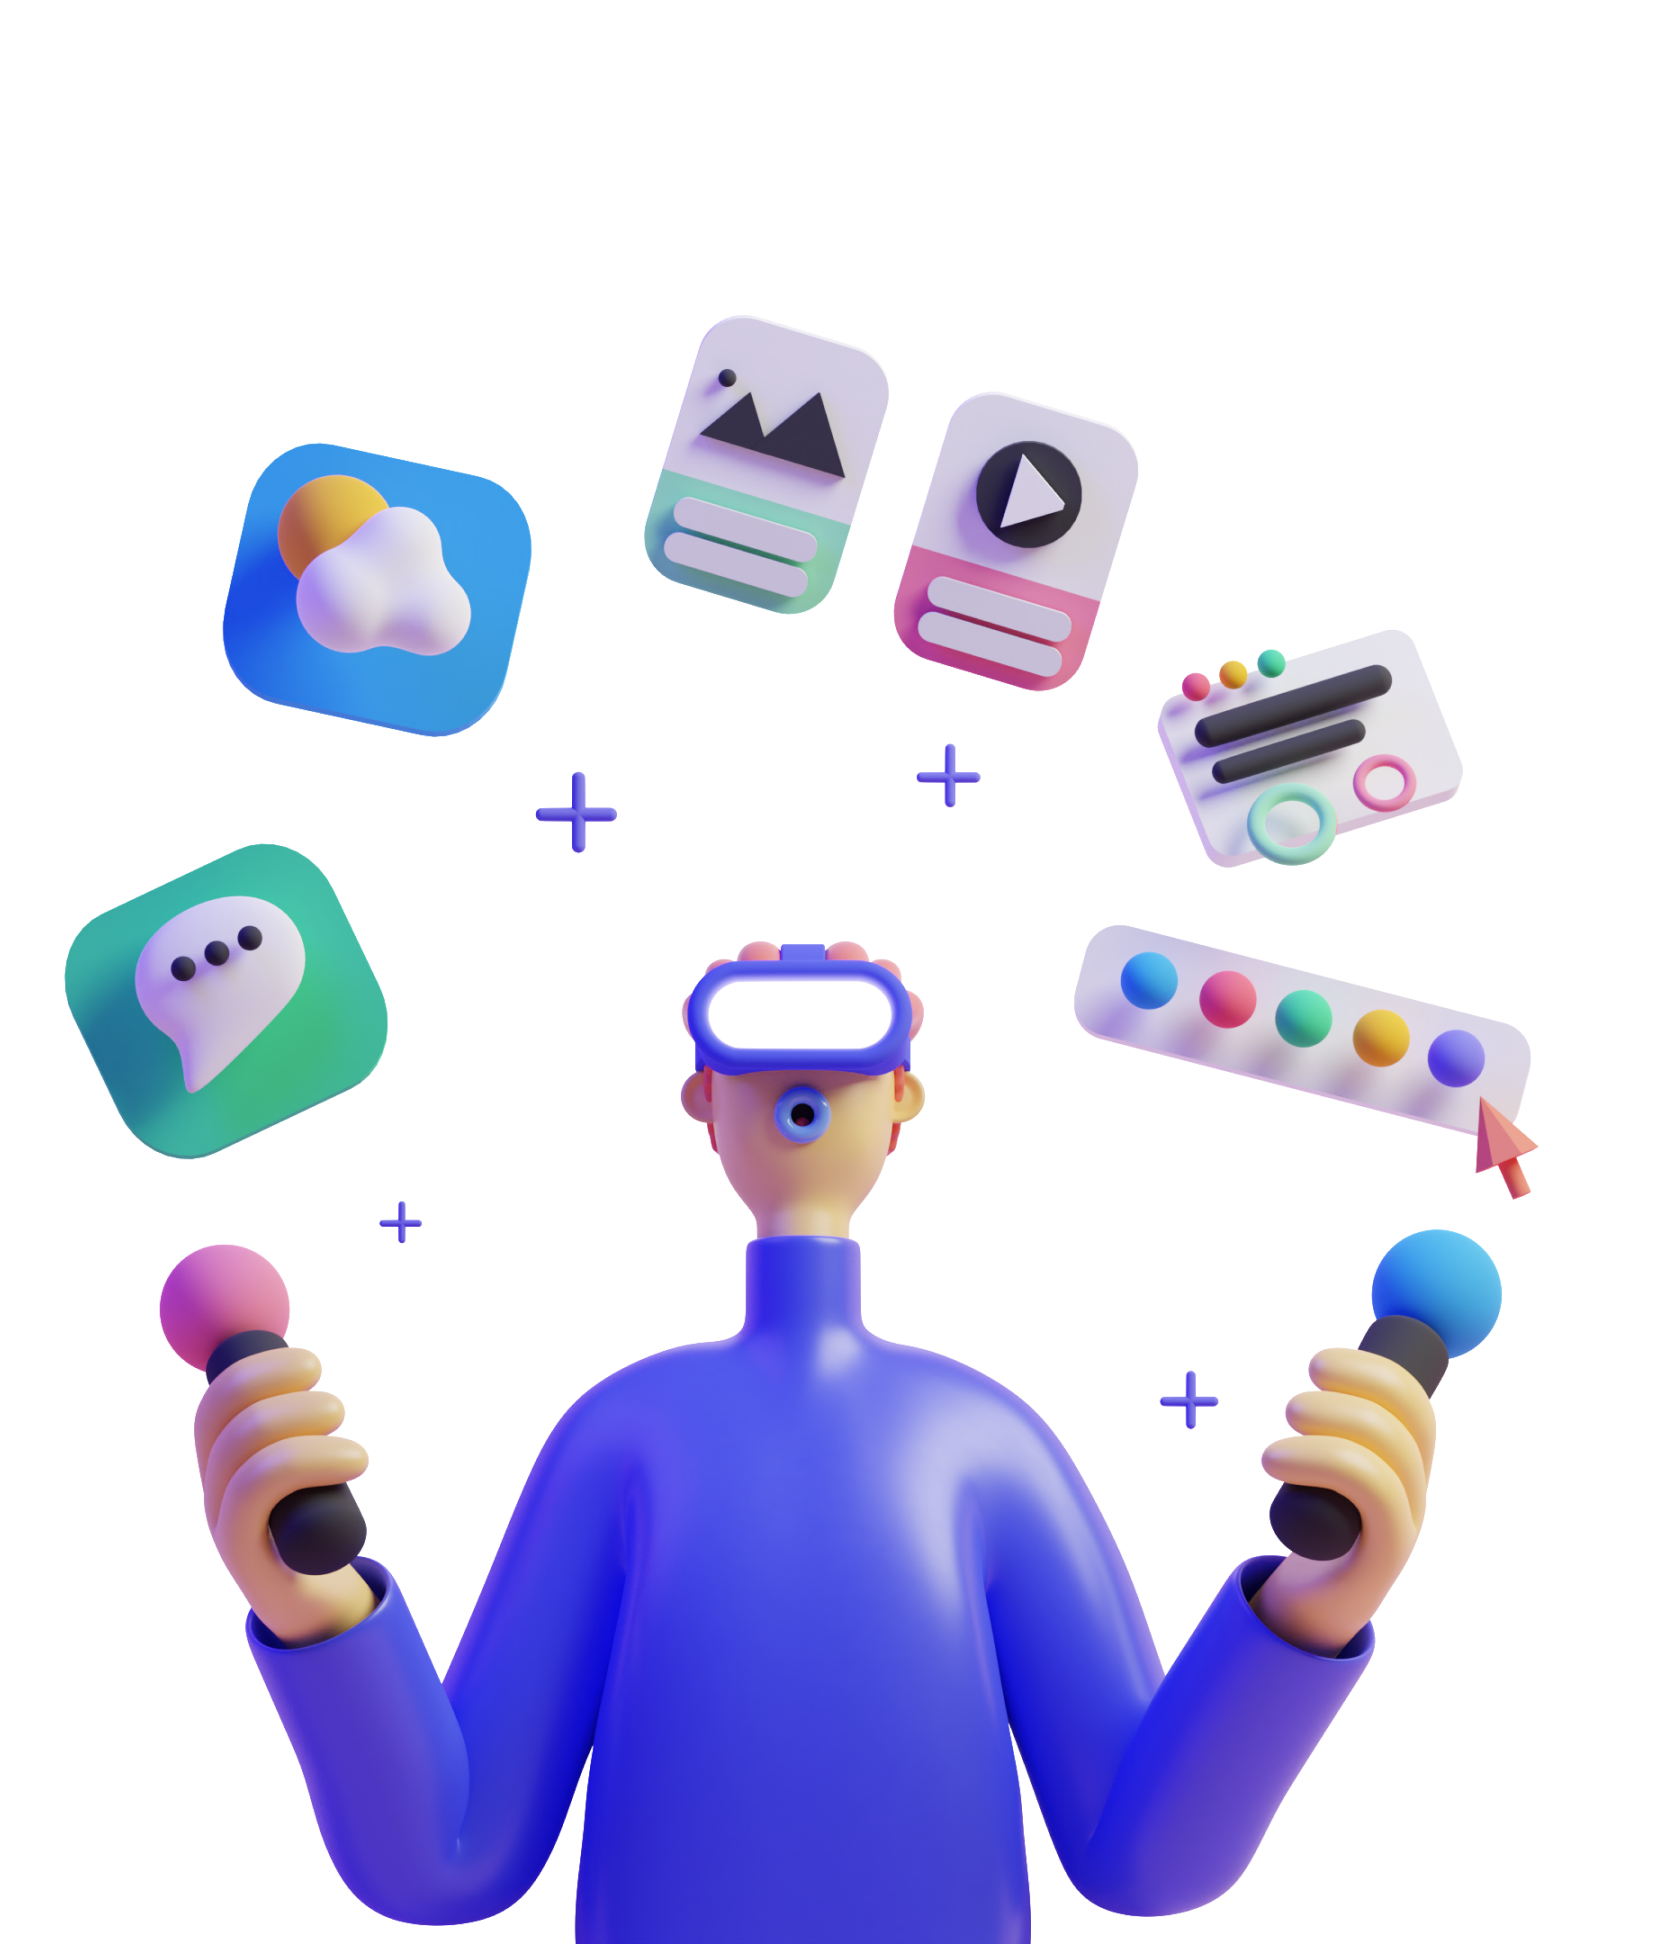
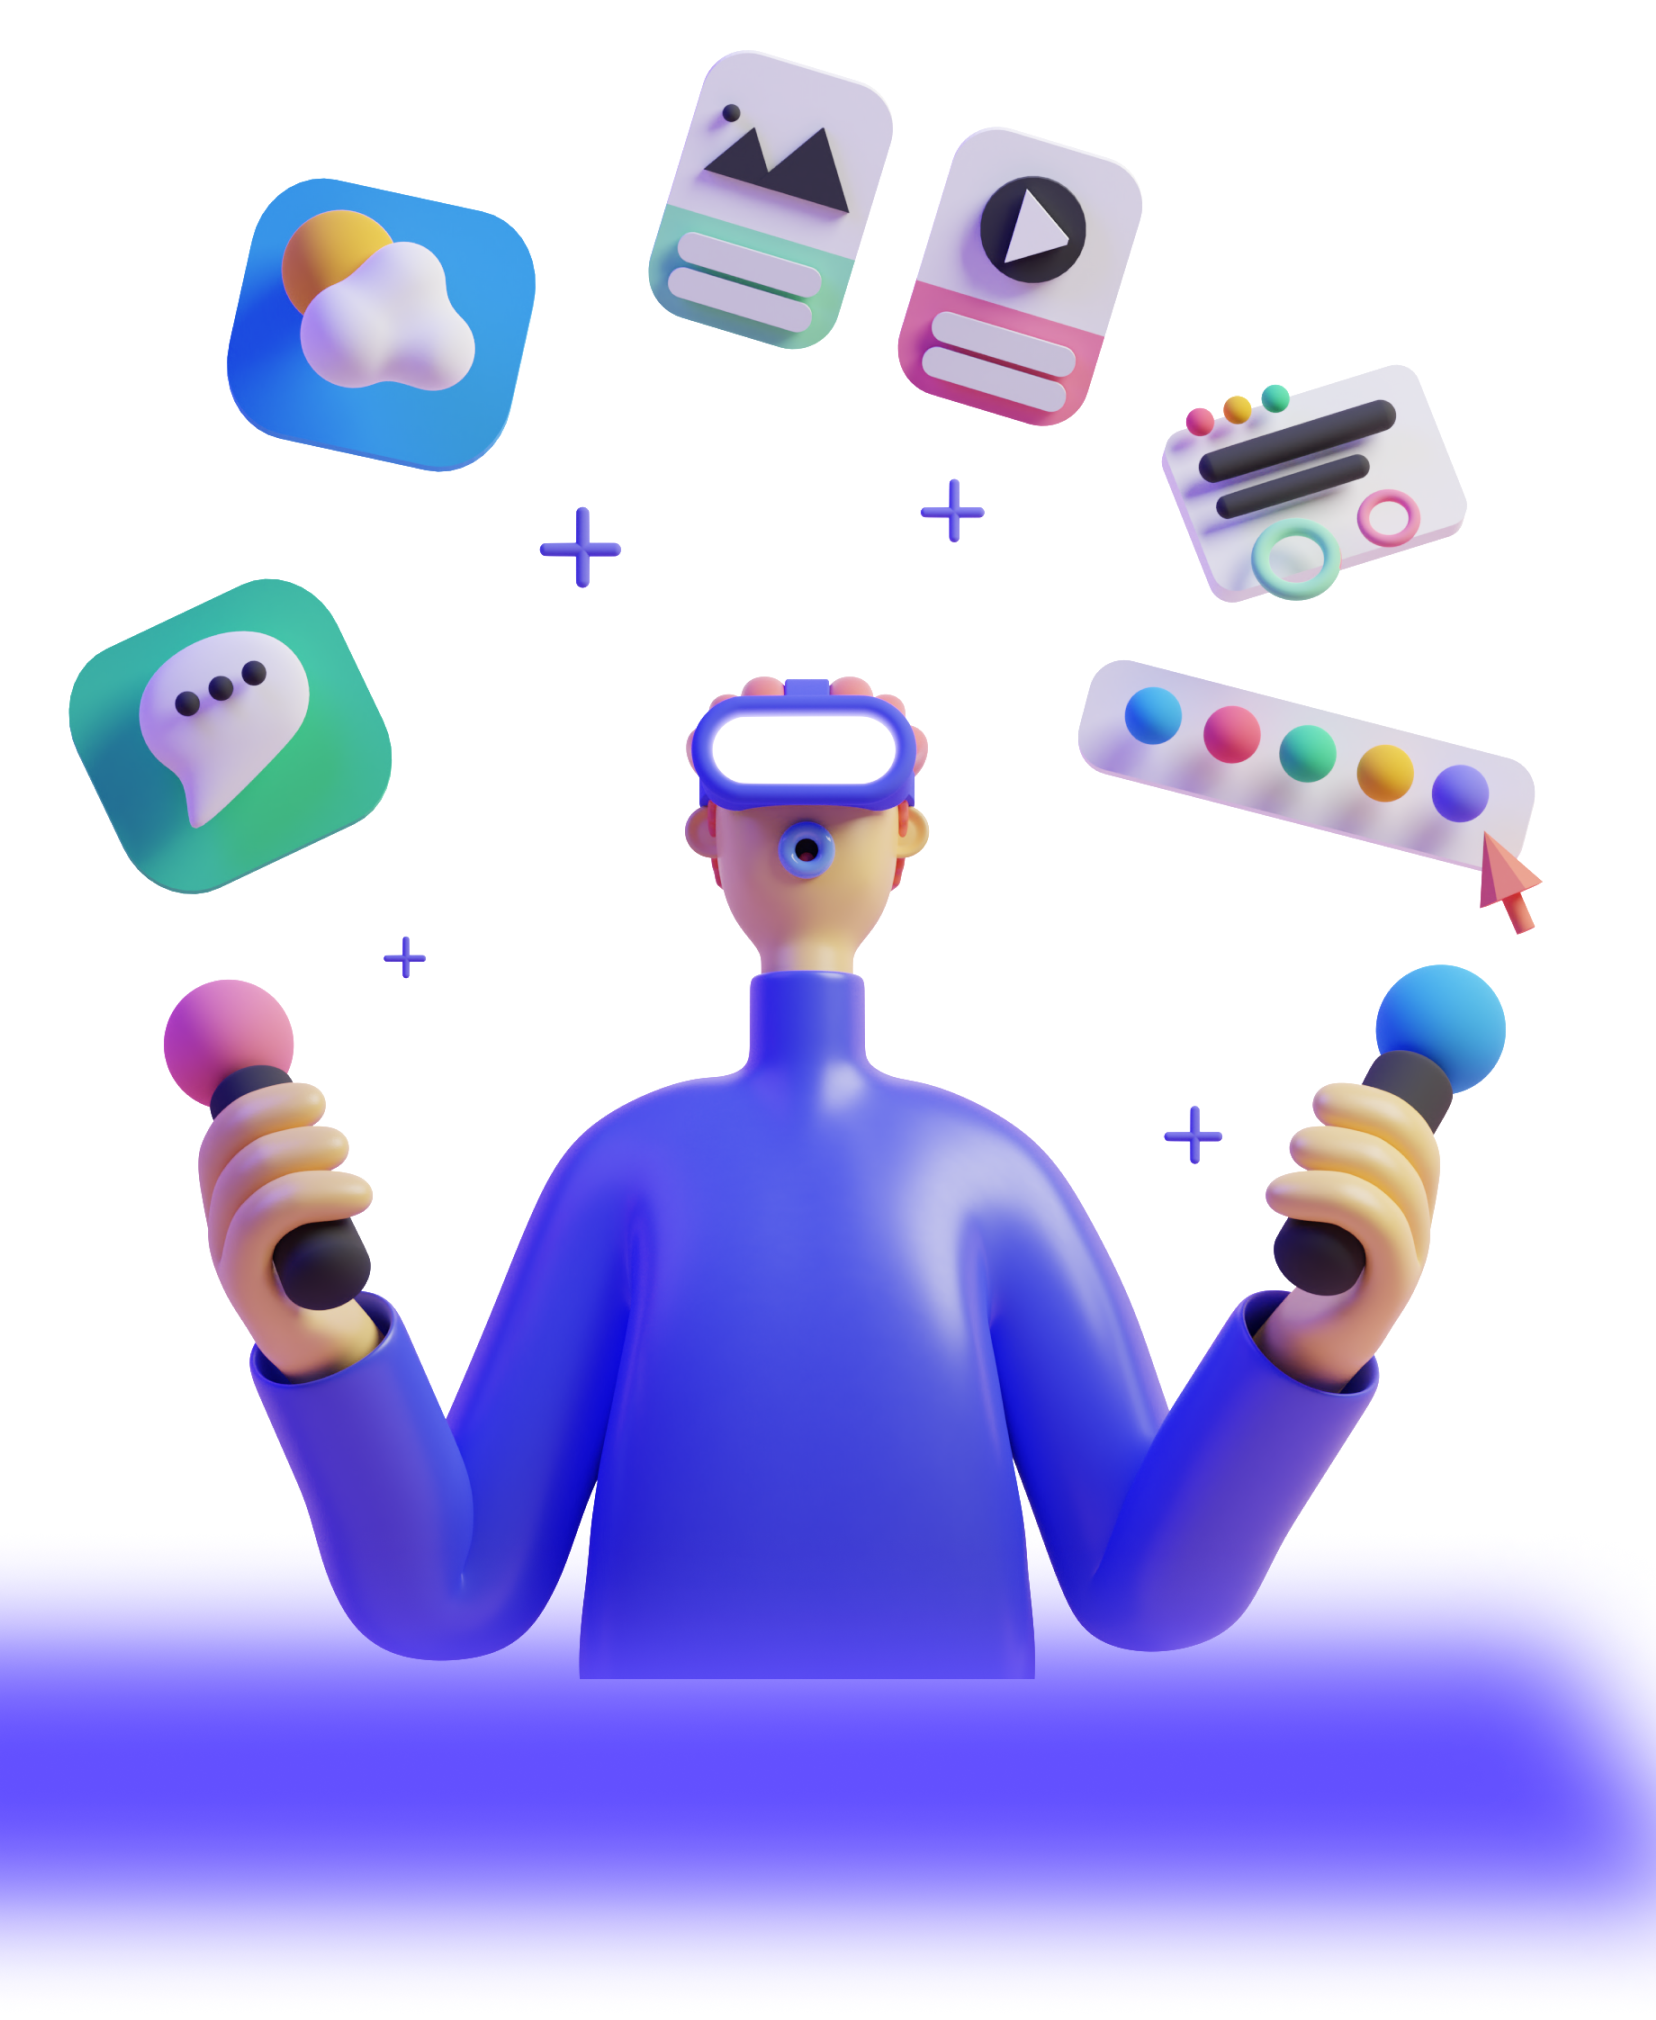
update

diff --git a/lib/ui/pages/home/drawer_page/home_page.dart b/lib/ui/pages/home/drawer_page/home_page.dart
@@ -1,0 +1,153 @@
+import 'package:flutter/material.dart';
+import 'package:tech_ecommerce/shared/theme.dart';
+import 'package:flutter_screenutil/flutter_screenutil.dart';
+
+class HomePage extends StatefulWidget {
+  const HomePage({Key? key}) : super(key: key);
+
+  @override
+  _HomePageState createState() => _HomePageState();
+}
+
+class _HomePageState extends State<HomePage> {
+  double xOffset = 0;
+  double yOffset = 0;
+  double scaleFactor = 1;
+  bool isDrawerOpen = false;
+  @override
+  Widget build(BuildContext context) {
+    Widget searchBar() {
+      return Expanded(
+        child: Container(
+          padding: EdgeInsets.symmetric(
+            horizontal: 21.w,
+            vertical: 18,
+          ),
+          decoration: BoxDecoration(
+            color: kBackgroundColor2,
+            border: Border.all(
+              width: 2.w,
+              color: kGreyColor2,
+            ),
+            borderRadius: BorderRadius.circular(
+              30,
+            ),
+          ),
+          child: Row(
+            children: [
+              Container(
+                child: Icon(
+                  Icons.search,
+                ),
+              ),
+              SizedBox(
+                width: 12.h,
+              ),
+              Text(
+                'Search',
+                style: greyTextStyle.copyWith(
+                  fontSize: 17.sp,
+                  fontWeight: semiBold,
+                ),
+              )
+            ],
+          ),
+        ),
+      );
+    }
+
+    Widget header() {
+      return Container(
+        padding: EdgeInsets.symmetric(
+          horizontal: 54.h,
+          vertical: 68.w,
+        ),
+        child: Row(
+          children: [
+            isDrawerOpen
+                ? IconButton(
+                    icon: Icon(Icons.arrow_back_ios),
+                    onPressed: () {
+                      setState(() {
+                        xOffset = 0;
+                        yOffset = 0;
+                        scaleFactor = 1;
+                        isDrawerOpen = false;
+                      });
+                    },
+                  )
+                : IconButton(
+                    onPressed: () {
+                      setState(() {
+                        xOffset = 230;
+                        yOffset = 150;
+                        scaleFactor = 0.6;
+                        isDrawerOpen = true;
+                      });
+                    },
+                    icon: Image.asset(
+                      'assets/icon_drawer.png',
+                      width: 22.w,
+                    ),
+                  ),
+            SizedBox(
+              width: 26.4.w,
+            ),
+            searchBar(),
+          ],
+        ),
+      );
+    }
+
+    Widget categories() {
+      return Container(
+        child: Row(
+          children: [
+            Container(
+              child: Text('Wearable'),
+            )
+          ],
+        ),
+      );
+    }
+
+    Widget content() {
+      return Expanded(
+        child: Container(
+          margin: EdgeInsets.only(
+            left: 50.w,
+          ),
+          child: Column(
+            crossAxisAlignment: CrossAxisAlignment.start,
+            children: [
+              Text(
+                'Order online\ncollect in store',
+                style: primaryTextStyle.copyWith(
+                  fontSize: 34.sp,
+                  fontWeight: bold,
+                ),
+              ),
+              categories()
+            ],
+          ),
+        ),
+      );
+    }
+
+    return AnimatedContainer(
+      transform: Matrix4.translationValues(xOffset, yOffset, 0)
+        ..scale(scaleFactor),
+      duration: Duration(milliseconds: 250),
+      color: kBackgroundColor2,
+      child: SafeArea(
+        child: Column(
+          crossAxisAlignment: CrossAxisAlignment.start,
+          children: [
+            header(),
+            content(),
+          ],
+        ),
+      ),
+    );
+  }
+}

diff --git a/lib/ui/pages/login_page.dart b/lib/ui/pages/login_page.dart
@@ -40,7 +40,10 @@ class LoginPage extends StatelessWidget {
     Widget titleLogin() {
       return Text(
         'Login',
-        style: primaryTextStyle.copyWith(fontSize: 18.sp, fontWeight: bold),
+        style: primaryTextStyle.copyWith(
+          fontSize: 18.sp,
+          fontWeight: bold,
+        ),
       );
     }
 
@@ -49,7 +52,7 @@ class LoginPage extends StatelessWidget {
         width: double.infinity,
         height: 647.h,
         margin: EdgeInsets.only(
-          top: 330,
+          top: 330.h,
         ),
         padding: EdgeInsets.symmetric(
           vertical: 36.h,
@@ -71,7 +74,7 @@ class LoginPage extends StatelessWidget {
                 title: 'Email',
                 hintText: 'Your Email',
                 margin: EdgeInsets.only(
-                  top: 44,
+                  top: 44.h,
                 ),
                 obscureText: false,
               ),
@@ -80,17 +83,17 @@ class LoginPage extends StatelessWidget {
                 title: 'Password',
                 hintText: 'Your Password',
                 margin: EdgeInsets.only(
-                  top: 44,
+                  top: 44.h,
                 ),
                 obscureText: true,
               ),
               SizedBox(
-                height: 24,
+                height: 24.h,
               ),
               Text(
                 'Forgot passcode?',
                 style: blueTextStyle.copyWith(
-                  fontSize: 15,
+                  fontSize: 15.sp,
                   fontWeight: semiBold,
                 ),
               ),
@@ -102,22 +105,22 @@ class LoginPage extends StatelessWidget {
                       onPressed: () {
                         Navigator.pushNamed(context, '/home-page');
                       },
-                      margin: EdgeInsets.only(top: 62),
+                      margin: EdgeInsets.only(top: 62.h),
                       colorButton: kPrimaryColor,
                       textStyle: whiteTextStyle.copyWith(
-                          fontSize: 20, fontWeight: semiBold),
+                          fontSize: 20.sp, fontWeight: semiBold),
                     ),
                   ),
                 ],
               ),
               SizedBox(
-                height: 19,
+                height: 19.h,
               ),
               Center(
                 child: Text(
                   'Create account',
                   style: blueTextStyle.copyWith(
-                    fontSize: 17,
+                    fontSize: 17.sp,
                     fontWeight: semiBold,
                   ),
                 ),

diff --git a/lib/ui/pages/splash_page.dart b/lib/ui/pages/splash_page.dart
@@ -44,8 +44,8 @@ class SplashPage extends StatelessWidget {
                   Center(
                     child: Container(
                       margin: EdgeInsets.only(
-                        top: 190,
-                        bottom: 18,
+                        top: 190.h,
+                        bottom: 18.h,
                       ),
                       width: 393.w,
                       height: 422.h,
@@ -53,7 +53,7 @@ class SplashPage extends StatelessWidget {
                         image: DecorationImage(
                           fit: BoxFit.contain,
                           image: AssetImage(
-                            'assets/image2.png',
+                            'assets/image1.png',
                           ),
                         ),
                       ),
@@ -63,7 +63,7 @@ class SplashPage extends StatelessWidget {
               ),
             ),
             startedButton(),
-            SizedBox(height: 112),
+            SizedBox(height: 50.h),
           ],
         ),
       ),

diff --git a/lib/main.dart b/lib/main.dart
@@ -1,6 +1,6 @@
 import 'package:flutter/material.dart';
 import 'package:flutter_screenutil/flutter_screenutil.dart';
-import 'package:tech_ecommerce/ui/pages/home/home_page.dart';
+import 'package:tech_ecommerce/ui/pages/home/main_home_page.dart';
 import 'package:tech_ecommerce/ui/pages/login_page.dart';
 import 'package:tech_ecommerce/ui/pages/splash_page.dart';
 
@@ -20,7 +20,7 @@ class MyApp extends StatelessWidget {
         routes: {
           '/': (context) => SplashPage(),
           '/login-page': (context) => LoginPage(),
-          '/home-page': (context) => HomePage(),
+          '/home-page': (context) => MainDrawerPage(),
         },
       ),
     );

diff --git a/lib/ui/pages/home/drawer_page/drawer_page.dart b/lib/ui/pages/home/drawer_page/drawer_page.dart
@@ -1,14 +1,14 @@
 import 'package:flutter/material.dart';
 import 'package:flutter_screenutil/flutter_screenutil.dart';
 
-class DrawerScreen extends StatefulWidget {
-  const DrawerScreen({Key? key}) : super(key: key);
+class DrawerPage extends StatefulWidget {
+  const DrawerPage({Key? key}) : super(key: key);
 
   @override
-  _DrawerScreenState createState() => _DrawerScreenState();
+  _DrawerPageState createState() => _DrawerPageState();
 }
 
-class _DrawerScreenState extends State<DrawerScreen> {
+class _DrawerPageState extends State<DrawerPage> {
   @override
   Widget build(BuildContext context) {
     return Container(

diff --git a/lib/ui/pages/home/main_home_page.dart b/lib/ui/pages/home/main_home_page.dart
@@ -1,0 +1,20 @@
+import 'package:flutter/material.dart';
+
+import 'drawer_page/drawer_page.dart';
+import 'drawer_page/home_page.dart';
+
+class MainDrawerPage extends StatelessWidget {
+  const MainDrawerPage({Key? key}) : super(key: key);
+
+  @override
+  Widget build(BuildContext context) {
+    return Scaffold(
+      body: Stack(
+        children: [
+          DrawerPage(),
+          HomePage(),
+        ],
+      ),
+    );
+  }
+}
